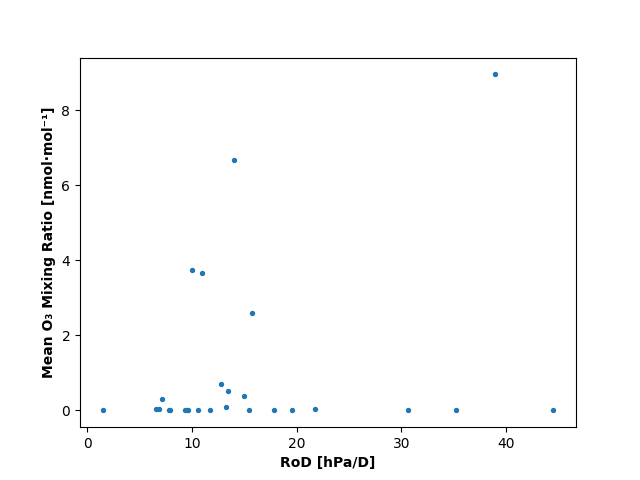
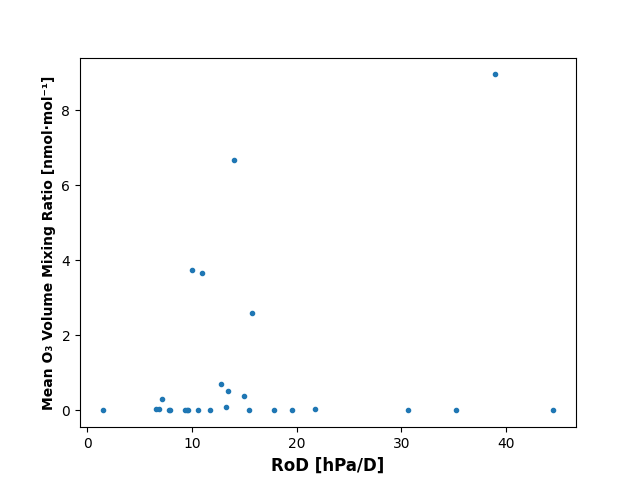
velocity 5.1

Changed region(s): [[0.0625, 0.1562, 0.0938, 0.875], [0.4062, 0.9375, 0.5938, 1.0]]

diff --git a/A04_GroupFiles_27 February, 2023 1109/Velocity.py b/A04_GroupFiles_27 February, 2023 1109/Velocity.py
@@ -25,7 +25,7 @@ from mpl_toolkits.basemap import shiftgrid  # For shifting longitudes
 import matplotlib.colors  # To create new colorbar
 import math
 
-load_data_from = str('Summer300')
+load_data_from = str('Summer200')
 
 f_string = 'C:/Users/alexm/AE2224/DATA_ANALYSIS/' + load_data_from + '/*' 
 
@@ -613,14 +613,14 @@ else:
 
 
 fig, ax = plt.subplots()
-plt.scatter(RoD_arr_new_method, MR_avg_new_method_arr * 10E9, s = 8)
+plt.scatter(RoD_arr_new_method, MR_avg_new_method_arr * 10E9, s = 9)
 # ax.set_title('RoD vs. MR[hPa/D]', fontweight = 'bold')
-ax.set_xlabel('RoD [hPa/D]', fontweight = 'bold')
+ax.set_xlabel('RoD [hPa/D]', fontweight = 'bold', fontsize = 12)
 dot_multiply = '\u00B7'
 superscript_minus_one = '\u207B\u00B9'
 subscript_three = '\u2083'
-ax.set_ylabel('Mean O' + subscript_three + ' Mixing Ratio [nmol' + dot_multiply + 'mol' + superscript_minus_one + ']', fontweight = 'bold')
-plt.savefig('RoD vs MR' + load_data_from)
+ax.set_ylabel('Mean O' + subscript_three + ' Volume Mixing Ratio [nmol' + dot_multiply + 'mol' + superscript_minus_one + ']', fontweight = 'bold', fontsize = 11)
+plt.savefig('RoD vs MR ' + load_data_from)
 plt.show()
 
 
